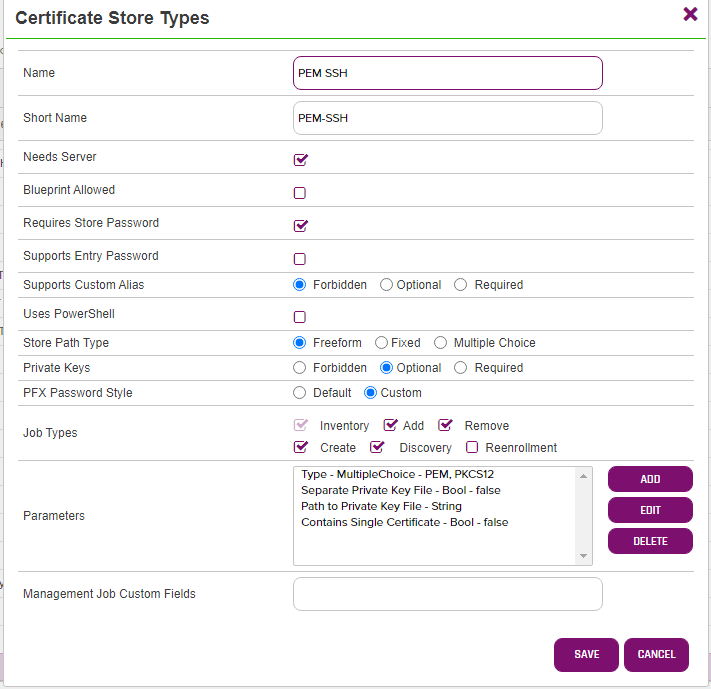
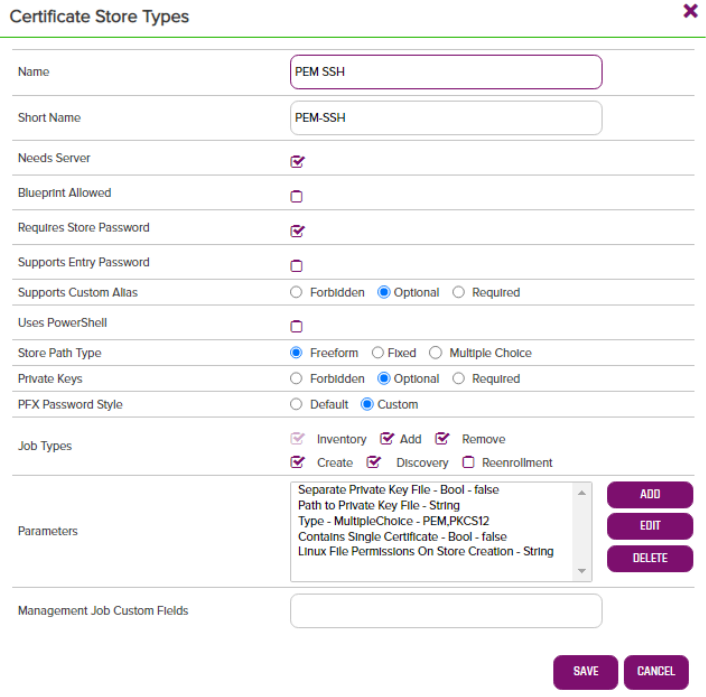
Linux permissions winrm credentials (#8) (#9)

diff --git a/PEMStoreSSH/Management.cs b/PEMStoreSSH/Management.cs
@@ -52,7 +52,11 @@ namespace PEMStoreSSH
                 throw new PEMException("Mising certificate store Type.  Please ensure store is defined as either PEM or PKCS12.");
             if (hasSeparatePrivateKey && string.IsNullOrEmpty(privateKeyPath))
                 throw new PEMException("Certificate store is set has having a separate private key but no private key path is specified in the store definition.");
-            
+
+            string linuxFilePermissions = properties.linuxFilePermissionsOnStoreCreation == null || string.IsNullOrEmpty(properties.linuxFilePermissionsOnStoreCreation.Value) ?
+                ApplicationSettings.DefaultLinuxPermissionsOnStoreCreation :
+                properties.linuxFilePermissionsOnStoreCreation.Value;
+
             PEMStore pemStore = new PEMStore(config.Store.ClientMachine, config.Server.Username, config.Server.Password, config.Store.StorePath, config.Store.StorePassword, Enum.Parse(typeof(PEMStore.FormatTypeEnum), properties.type.Value, true), 
             privateKeyPath);
 
@@ -70,9 +74,9 @@ namespace PEMStoreSSH
 
                         if (ApplicationSettings.CreateStoreOnAddIfMissing && !storeExists)
                         {
-                            pemStore.CreateEmptyStoreFile(config.Store.StorePath);
+                            pemStore.CreateEmptyStoreFile(config.Store.StorePath, linuxFilePermissions);
                             if (hasSeparatePrivateKey && privateKeyPath != null)
-                                pemStore.CreateEmptyStoreFile(privateKeyPath);
+                                pemStore.CreateEmptyStoreFile(privateKeyPath, linuxFilePermissions);
                         }
 
                         if (!ApplicationSettings.CreateStoreOnAddIfMissing && !storeExists)
@@ -86,7 +90,7 @@ namespace PEMStoreSSH
                         if (!pemStore.DoesStoreExist(config.Store.StorePath))
                             throw new PEMException($"Certificate store {config.Store.StorePath} does not exist.");
 
-                        pemStore.RemoveCertificate(config.Job.Alias);
+                        pemStore.RemoveCertificate(config.Job.Alias, linuxFilePermissions);
 
                         break;
 
@@ -94,9 +98,9 @@ namespace PEMStoreSSH
                         if (pemStore.DoesStoreExist(config.Store.StorePath))
                             throw new PEMException($"Certificate store {config.Store.StorePath} already exists and cannot be created.");
 
-                        pemStore.CreateEmptyStoreFile(config.Store.StorePath);
+                        pemStore.CreateEmptyStoreFile(config.Store.StorePath, linuxFilePermissions);
                         if (hasSeparatePrivateKey && privateKeyPath != null)
-                            pemStore.CreateEmptyStoreFile(privateKeyPath);
+                            pemStore.CreateEmptyStoreFile(privateKeyPath, linuxFilePermissions);
 
                         break;
 

diff --git a/PEMStoreSSH/RemoteHandlers/WinRMHandler.cs b/PEMStoreSSH/RemoteHandlers/WinRMHandler.cs
@@ -7,21 +7,28 @@
 
 using System;
 using System.Collections.Generic;
-using System.IO;
 using System.Management.Automation;
 using System.Management.Automation.Runspaces;
+using System.Net;
 using System.Text;
 
 namespace PEMStoreSSH.RemoteHandlers
 {
     class WinRMHandler : BaseRemoteHandler
     {
+        WSManConnectionInfo connectionInfo { get; set; }
+
         internal WinRMHandler(string server, string serverLogin, string serverPassword)
         {
             if (string.IsNullOrEmpty(server))
                 throw new PEMException("Blank or missing server name for server orchestration.");
 
             Server = server;
+            connectionInfo = new WSManConnectionInfo(new System.Uri($"{Server}/wsman"));
+            if (!string.IsNullOrEmpty(serverLogin))
+            {
+                connectionInfo.Credential = new PSCredential(serverLogin, new NetworkCredential(serverLogin, serverPassword).SecurePassword);
+            }
         }
 
         public override string RunCommand(string commandText, object[] parameters, bool withSudo, string[] passwordsToMaskInLog)
@@ -30,7 +37,6 @@ namespace PEMStoreSSH.RemoteHandlers
 
             try
             {
-                WSManConnectionInfo connectionInfo = new WSManConnectionInfo(new System.Uri($"{Server}/wsman"));
                 if (ApplicationSettings.UseNegotiateAuth)
                 {
                     connectionInfo.AuthenticationMechanism = AuthenticationMechanism.Negotiate;
@@ -132,7 +138,7 @@ namespace PEMStoreSSH.RemoteHandlers
             RunCommand($@"rm ""{path}""", null, false, null);
         }
         
-        public override void CreateEmptyStoreFile(string path)
+        public override void CreateEmptyStoreFile(string path, string linuxFilePermissions)
         {
             RunCommand($@"Out-File -FilePath ""{path}""", null, false, null);
         }

diff --git a/PEMStoreSSH/RemoteHandlers/SSHHandler.cs b/PEMStoreSSH/RemoteHandlers/SSHHandler.cs
@@ -9,6 +9,7 @@ using System;
 using System.Collections.Generic;
 using System.IO;
 using System.Text;
+using System.Text.RegularExpressions;
 
 using Renci.SshNet;
 
@@ -16,6 +17,8 @@ namespace PEMStoreSSH.RemoteHandlers
 {
     class SSHHandler : BaseRemoteHandler
     {
+        private const string LINUX_PERMISSION_REGEXP = "^[0-7]{3}$";
+
         private ConnectionInfo Connection { get; set; }
 
         internal SSHHandler(string server, string serverLogin, string serverPassword)
@@ -233,15 +236,23 @@ namespace PEMStoreSSH.RemoteHandlers
             RunCommand($"rm {path}", null, ApplicationSettings.UseSudo, null);
         }
 
-        public override void CreateEmptyStoreFile(string path)
+        public override void CreateEmptyStoreFile(string path, string linuxFilePermissions)
         {
-            RunCommand($"touch {path}", null, ApplicationSettings.UseSudo, null);
+            AreLinuxPermissionsValid(linuxFilePermissions);
+            RunCommand($"install -m {linuxFilePermissions} /dev/null {path}", null, ApplicationSettings.UseSudo, null);
 
             // modify file owner if cert store file was created with sudo
             if (ApplicationSettings.UseSudo)
             {
                 RunCommand($"who | awk '{{print $1}}' | (read user; sudo chown $user {path} )", null, ApplicationSettings.UseSudo, null);
             }
+        }
+
+        public static void AreLinuxPermissionsValid(string permissions)
+        {
+            Regex regex = new Regex(LINUX_PERMISSION_REGEXP);
+            if (!regex.IsMatch(permissions))
+                throw new PEMException($"Invalid format for Linux file permissions.  This value must be exactly 3 digits long with each digit between 0-7 but found {permissions} instead.");
         }
 
         private string ReplaceSpacesWithLF(string privateKey)

diff --git a/PEMStoreSSH/ApplicationSettings.cs b/PEMStoreSSH/ApplicationSettings.cs
@@ -13,6 +13,9 @@ namespace PEMStoreSSH
         public static string SeparateUploadFilePath { get; set; }
         public static bool UseNegotiateAuth { get; set; }
         public static bool UseSCP { get; set; }
+        public static string DefaultLinuxPermissionsOnStoreCreation { get; set; }
+
+        private const string DEFAULT_LINUX_PERMISSION_SETTING = "600";
 
         public static void Initialize(string currLocation)
         {
@@ -34,6 +37,8 @@ namespace PEMStoreSSH
             SeparateUploadFilePath = AddTrailingSlash(jsonContents.SeparateUploadFilePath.Value);
             UseNegotiateAuth = jsonContents.UseNegotiateAuth.Value.Equals("Y", System.StringComparison.OrdinalIgnoreCase);
             UseSCP = jsonContents.UseSCP == null || !jsonContents.UseSCP.Value.Equals("Y", System.StringComparison.OrdinalIgnoreCase) ? false : true;
+            DefaultLinuxPermissionsOnStoreCreation = jsonContents.DefaultLinuxPermissionsOnStoreCreation == null ? DEFAULT_LINUX_PERMISSION_SETTING : jsonContents.DefaultLinuxPermissionsOnStoreCreation.Value;
+
         }
 
         private static string AddTrailingSlash(string path)

diff --git a/PEMStoreSSH/PEMStore.cs b/PEMStoreSSH/PEMStore.cs
@@ -128,7 +128,7 @@ namespace PEMStoreSSH
             }
         }
 
-        internal void RemoveCertificate(string alias)
+        internal void RemoveCertificate(string alias, string linuxFilePermissions)
         {
             try
             {
@@ -150,7 +150,7 @@ namespace PEMStoreSSH
                 {
                     mutex.WaitOne();
                     SSH.RemoveCertificateFile(PrivateKeyPath);
-                    SSH.CreateEmptyStoreFile(PrivateKeyPath);
+                    SSH.CreateEmptyStoreFile(PrivateKeyPath, linuxFilePermissions);
                 }
                 catch (Exception ex)
                 {
@@ -187,9 +187,9 @@ namespace PEMStoreSSH
             return CertificateHandler.IsValidStore(path, ServerType, SSH);
         }
 
-        internal void CreateEmptyStoreFile(string path)
+        internal void CreateEmptyStoreFile(string path, string linuxFilePermissions)
         {
-            SSH.CreateEmptyStoreFile(path);
+            SSH.CreateEmptyStoreFile(path, linuxFilePermissions);
         }
 
         internal bool IsStorePathValid(string path)

diff --git a/PEMStoreSSH/RemoteHandlers/BaseRemoteHandler.cs b/PEMStoreSSH/RemoteHandlers/BaseRemoteHandler.cs
@@ -32,7 +32,7 @@ namespace PEMStoreSSH.RemoteHandlers
 
         public abstract void RemoveCertificateFile(string path);
 
-        public abstract void CreateEmptyStoreFile(string path);
+        public abstract void CreateEmptyStoreFile(string path, string linuxFilePermissions);
 
     }
 }

diff --git a/PEMStoreSSH/RemoteHandlers/IRemoteHandler.cs b/PEMStoreSSH/RemoteHandlers/IRemoteHandler.cs
@@ -23,6 +23,6 @@ namespace PEMStoreSSH.RemoteHandlers
 
         void RemoveCertificateFile(string path);
 
-        void CreateEmptyStoreFile(string path);
+        void CreateEmptyStoreFile(string path, string linuxFilePermissions);
     }
 }

diff --git a/README.md b/README.md
@@ -64,8 +64,9 @@ In Keyfactor Command create a new Certificate Store Type similar to the one belo
 - **Private Keys** – Optional (a certificate in a PEM/PKCS12 Keystore may or may not contain a private key)
 - **PFX Password Style** – Select Custom.
 - **Job Types** – Discovery, Inventory, Add, and Remove are the 3 job types implemented by this Orchestrator
-- **Parameters** – Three custom parameters are used for this store type. They are:
-  - **Type (Name MUST be "type"):**
+- **Parameters** – Five custom parameters are used for this store type. They are:  
+
+- **Type (Name MUST be "type"):**
 
 ![](Images/Image2.png)
 
@@ -81,6 +82,9 @@ In Keyfactor Command create a new Certificate Store Type similar to the one belo
 
 ![](Images/Image14.png)
 
+  - **Linux File Permissions on Store Creation (Name MUST be "linuxFilePermissionsOnStoreCreation"):** - Optional parameter.  Overrides the optional config.json DefaultLinuxPermissionsOnStoreCreation setting (see section 4 below) for a specific certificate store.  This value will set the file permissions (Linux only) of a new certificate store created via a Management-Create job.  If this parameter is not added or added but not set, the permissions used will be derived from the DefaultLinuxPermissionsOnStoreCreation setting. 
+
+![](Images/Image15.png)
 
 **2. Register the PEM_PKCS12 Orchestrator with Keyfactor**
 
@@ -130,13 +134,14 @@ If you choose to manually create a PEM_PKCS12 store In Keyfactor Command rather 
 
   - PAM provider information to pass the UserId/Password or UserId/SSH private key credentials
 
-  When setting up a Windows server, the format of the machine name must be – [http://_ServerName_:5985](http://ServerName:5985/), where "5985" is the WinRM port number. 5985 is the standard, but if your organization uses a different, use that.  The credentials used will be the Keyfactor Command service account.  Because of this, for Windows orchestrated servers, setting an additional set of credentials is not necessary.  **However, it is required that the *Change Credentials* link still be clicked on and the resulting dialog closed by clicking OK.**
+  When setting up a Windows server, the format of the machine name must be – http://ServerName:5985, where &quot;5985&quot; is the WinRM port number. 5985 is the standard, but if your organization uses a different port, use that.  The Keyfactor Command service account will be used if the credentials are left blank.  **However, if you choose to not enter credentials and use the Keyfactor Command service account, it is required that the *Change Credentials* link still be clicked on and the resulting dialog closed by clicking OK.**
 - **Store Path** – Required. The FULL PATH and file name of the PEM/PKCS12 store being managed. File paths on Linux servers will always begin with a "/". Windows servers will always begin with the drive letter, colon, and backslash, such as "c:\\".  Valid characters for Linux store paths include any alphanumeric character, space, forward slash, hyphen, underscore, and period. For Windows servers, the aforementioned characters as well as a colon and backslash.
 - **Type** – Select either PEM or PKCS12
 - **Separate Private Key File** – Check if the store has a separate private key file.
 - **Path to Private Key File** – If Separate Private Key File is checked, enter the FULL PATH to the private key file. File paths on Linux servers will always begin with a "/". Windows servers will always begin with the drive letter, colon, and backslash, such as "c:".  Valid characters for Linux private key paths include any alphanumeric character, space, forward slash, hyphen, underscore, and period. For Windows servers, the aforementioned characters as well as a colon and backslash.
 - **Orchestrator** – Select the orchestrator you wish to use to manage this store
-- **Store Password** – Set the store password or set no password after clicking the supplied button.  If a store password is entered, this value will be used when encrypting private keys that get written to the certificate store during certificate add operations.  Selecting "No Password" will cause an unencrypted private key to be saved during add operations.
+- **Store Password** – Required. Set the store password or set no password after clicking the supplied button.  If a store password is entered, this value will be used when encrypting private keys that get written to the certificate store during certificate add operations.  Selecting "No Password" will cause an unencrypted private key to be saved during add operations.
+- **Linux File Permissions on Store Creation** - Optional (Linux only). Set the Linux file permissions you wish to be set when creating a new physical certificate store via checking Create Certificate Store above.  This value must be 3 digits all betwwen 0-7.  
 - **Inventory Schedule** – Set a schedule for running Inventory jobs or none, if you choose not to schedule Inventory at this time.
 
 **3b. (Optional) Schedule a PEM_PKCS12 Discovery Job**
@@ -157,7 +162,7 @@ First, in Keyfactor Command navigate to Certificate Locations =\> Certificate St
 
   - PAM provider information to pass the UserId/Password or UserId/SSH private key credentials
 
-  When setting up a Windows server, the format of the machine name must be – [http://_ServerName_:5985](http://ServerName:5985/), where "5985" is the WinRM port number. 5985 is the standard, but if your organization uses a different, use that.  The credentials used will be the Keyfactor Command service account.  Because of this, for Windows orchestrated servers, setting an additional set of credentials is not necessary.  **However, it is required that the *Change Credentials* link still be clicked on and the resulting dialog closed by clicking OK.**
+  When setting up a Windows server, the format of the machine name must be – http://ServerName:5985, where &quot;5985&quot; is the WinRM port number. 5985 is the standard, but if your organization uses a different port, use that.  The Keyfactor Command service account will be used if the credentials are left blank.  **However, if you choose to not enter credentials and use the Keyfactor Command service account, it is required that the *Change Credentials* link still be clicked on and the resulting dialog closed by clicking OK.**
 - **When** – Required. The date and time when you would like this to execute.
 - **Directories to search** – Required. A comma delimited list of the FULL PATHs and file names where you would like to recursively search for PEM/PKCS12 stores. File paths on Linux servers will always begin with a "/". Windows servers will always begin with the drive letter, colon, and backslash, such as "c:\\".  Entering the string "fullscan" when Discovering against a Windows server will automatically do a recursive search on ALL local drives on the server.
 - **Directories to ignore** – Optional. A comma delimited list of the FULL PATHs that should be recursively ignored when searching for PEM/PKCS12 stores. Linux file paths will always begin with a "/". Windows servers will always begin with the drive letter, colon, and backslash, such as "c:\\".
@@ -179,8 +184,9 @@ The PEM_PKCS12 Orchestrator uses a JSON config file:
 "CreateStoreOnAddIfMissing": "N",  
 "UseSeparateUploadFilePath": "N",  
 "SeparateUploadFilePath": "/path/to/upload/folder/",  
-"UseNegotiateAuth": "N"  ,  
-"UseSCP": "N"  
+"UseNegotiateAuth": "N",   
+"UseSCP": "N",   
+"DefaultLinuxPermissionsOnStoreCreation": "600"   
 }
 
 **UseSudo** - Y/N - Determines whether to prefix certain Linux command with "sudo". This can be very helpful in ensuring that the user id running commands ssh uses "least permissions necessary" to process each task. Setting this value to "Y" will prefix all Linux commands with "sudo" with the expectation that the command being executed on the orchestrated Linux server will look in the sudoers file to determine whether the logged in ID has elevated permissions for that specific command. For orchestrated Windows servers, this setting has no effect. Setting this value to "N" will result in "sudo" not being added to Linux commands.  
@@ -189,6 +195,7 @@ The PEM_PKCS12 Orchestrator uses a JSON config file:
 **SeparateUploadFilePath** (Linux only) – Only used when UseSeparateUploadFilePath is set to "Y". Set this to the path you wish to use as the location to upload and later remove PEM/PKCS12 certificate store data before being moved to the final destination.  
 **UseNegotiateAuth** (Windows only) – Y/N - Determines if WinRM should use Negotiate (Y) when connecting to the remote server.  
 **UseSCP** (Optional, Linux only) - Y/N - Detemines if SCP (Y) or SFTP (N) should be used in uploading certificate files during Management-Add jobs.  
+**DefaultLinuxPermissionsOnStoreCreation** (Linux only) - Optional.  Value must be 3 digits all between 0-7.  The Linux file permissions that will be set on a new certificate store created via a Management Create job.  This value will be used for all certificate stores managed by this orchestrator instance unless overridden by the optional "Linux File Permissions on Store Creation" custom parameter setting on a specific certificate store.  If "Linux File Permissions on Store Creation" and DefaultLinuxPermissionsOnStoreCreation are not set, a default permission of 600 will be used.  
 
 
 ***

diff --git a/CHANGELOG.md b/CHANGELOG.md
@@ -1,3 +1,7 @@
+v1.6
+- Add new config.json setting DefaultLinuxPermissionsOnStoreCreation, and certificate store type custom parameter linuxFilePermissionsOnStoreCreation
+- Add ability to use client machine credentials for WinRM Windows servers rather than always using the Keyfactor service account 
+
 v1.5
 - Limit the valid characters that can be used for store paths to protect against command injection.
 
